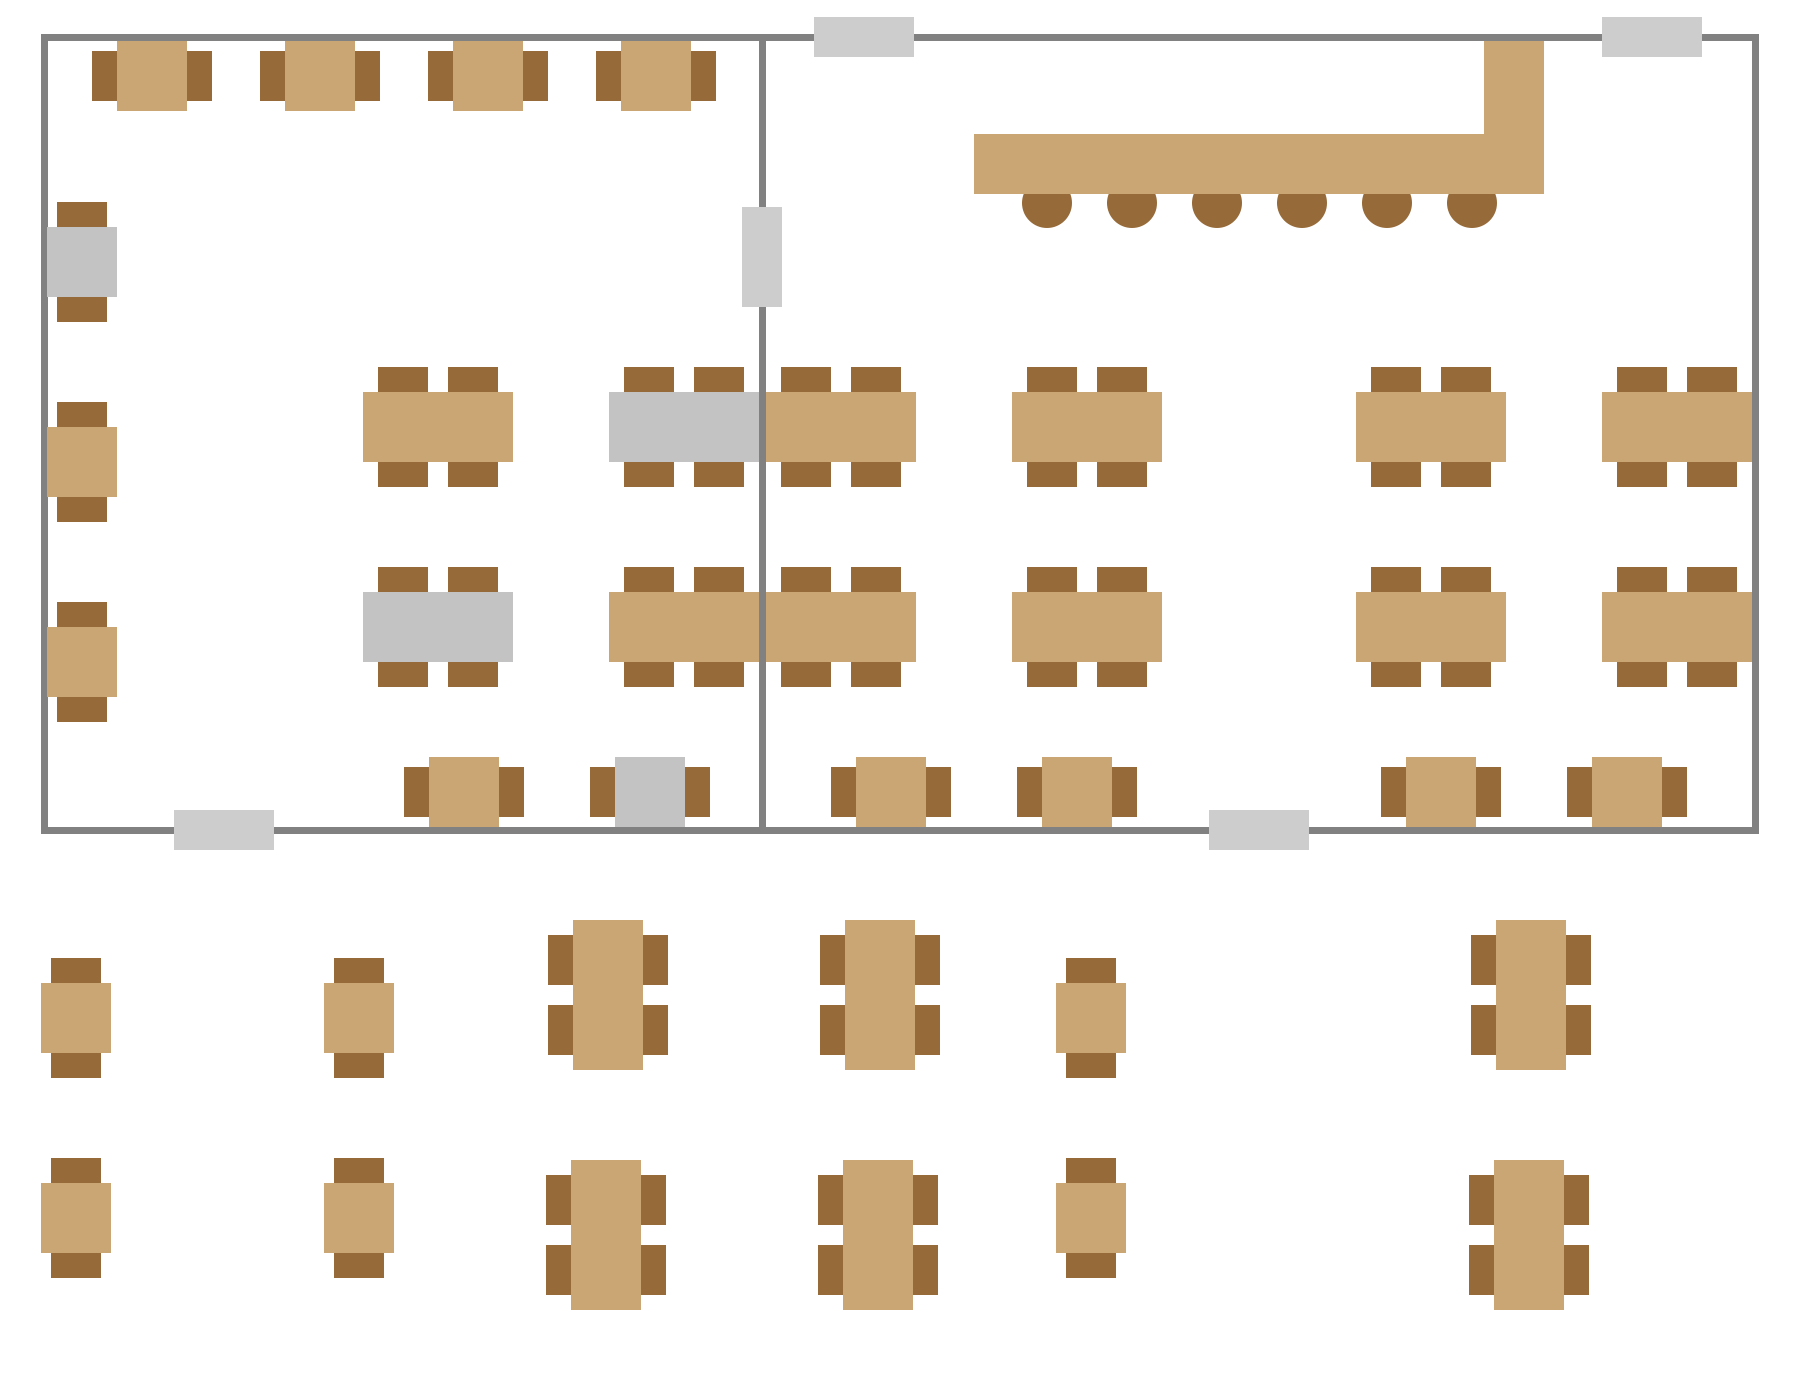
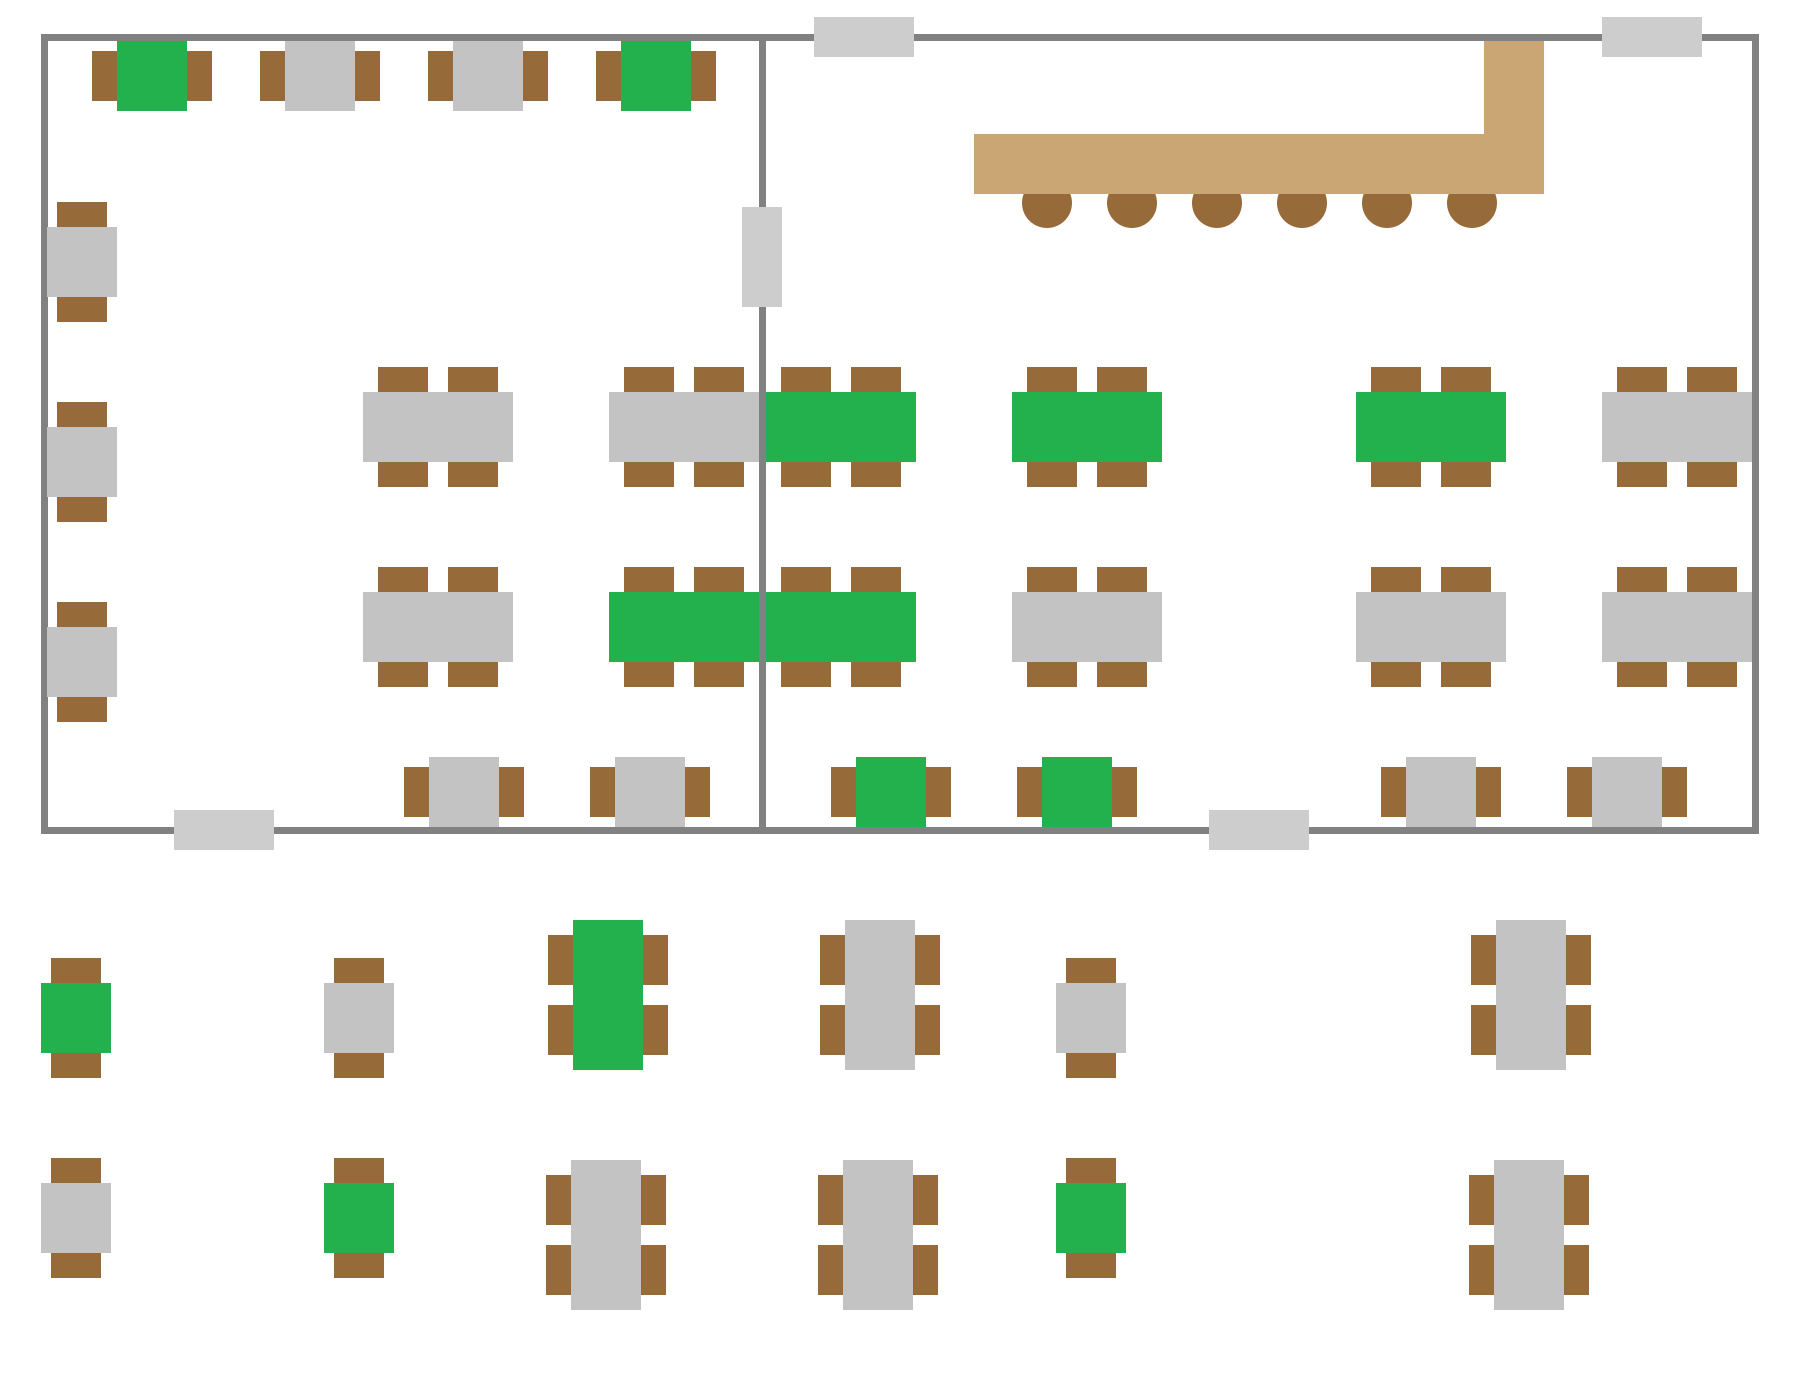
Better Table selection,  placeholder added for date selection

diff --git a/script.js b/script.js
@@ -1,6 +1,7 @@
 var reservationArray = [
 	{'date':'20-03-2022', 'time':'20:00', 'name':'Klaus Klausen', 'email':'klaus.en@gmy.de', 'seats':'4', 'comment':'', 'table':'A12'},
 	{'date':'20-03-2022', 'time':'20:30', 'name':'Mareike Ke', 'email':'mareike-ke@geemail.com', 'seats':'2', 'comment':'', 'table':'B06'},
+	{'date':'20-03-2022', 'time':'20:45', 'name':'Max Mustermann', 'email':'max@mustermann.com', 'seats':'8', 'comment':'', 'table':'A09, A10'},
 	{'date':'21-03-2022', 'time':'19:45', 'name':'Anne Susanne', 'email':'sus-anne@gmy.de', 'seats':'6', 'comment':'Vielleicht sind wir doch nur 5.', 'table':'A15, A16'}
 ];
 
@@ -16,7 +17,7 @@ function buildReservationTable(data){
 	let dataHTML = '';
 	
 	for(let d of data) {
-		dataHTML += `<tr onclick="customerInfo('${d.email}', '${d.comment}')"><td>${d.date}</td><td>${d.time}</td><td>${d.name}</td><td>${d.seats}</td><td>${d.table}</td></tr>`;
+		dataHTML += `<tr onclick="customerInfo('${d.email}', '${d.comment}', '${d.seats}')"><td>${d.date}</td><td>${d.time}</td><td>${d.name}</td><td>${d.seats}</td><td>${d.table}</td></tr>`;
 	}
 	console.log(dataHTML)
 	
@@ -24,12 +25,19 @@ function buildReservationTable(data){
 	tableBody.innerHTML = dataHTML;
 }
 
-function customerInfo(email, comment) {
+function customerInfo(email, comment, seats) {
 	document.getElementById("commentInfo").innerHTML = comment;
 	document.getElementById("emailInfo").innerHTML = email;
 	
 	/*Markieren vom ausgewählten Tisch auf der Karte.
 	Information über den Tisch sollte in das json Array.*/
+	if(seats == 4){
+		document.getElementById("adminMap").src = "ressources/restaurant_admin_four.png";
+	}else if(seats == 2){
+		document.getElementById("adminMap").src = "ressources/restaurant_admin_two.png";
+	}else if(seats == 8){
+		document.getElementById("adminMap").src = "ressources/restaurant_move_table.png";
+	}
 }
 
 /*Funktionen fürs Essen vorbestellen*/

diff --git a/reservation.html b/reservation.html
@@ -37,7 +37,7 @@
             <div id="form">
                 <div id="date_time_container"> 
                     <div id="date">
-						<input type="text" id="date-input" autocomplete="off" name="reservationDate" readonly="true">
+						<input type="text" id="date-input" autocomplete="off" name="reservationDate" readonly="true" placeholder="Hier Datum wählen">
 					</div>
                     <div id='time'>
 						<select id="time_content">

diff --git a/admin.html b/admin.html
@@ -47,7 +47,7 @@
 
                 <!-- TISCH ANSICHT -->
                 <div id="table-selection">
-                    <img src="ressources\restaurant_base.png" width="600" id="adminMap" alt="map"/>
+                    <img src="ressources\restaurant_admin_base.png" width="600" id="adminMap" alt="map"/>
                 </div>
 				
 				<div id="customer-info">
